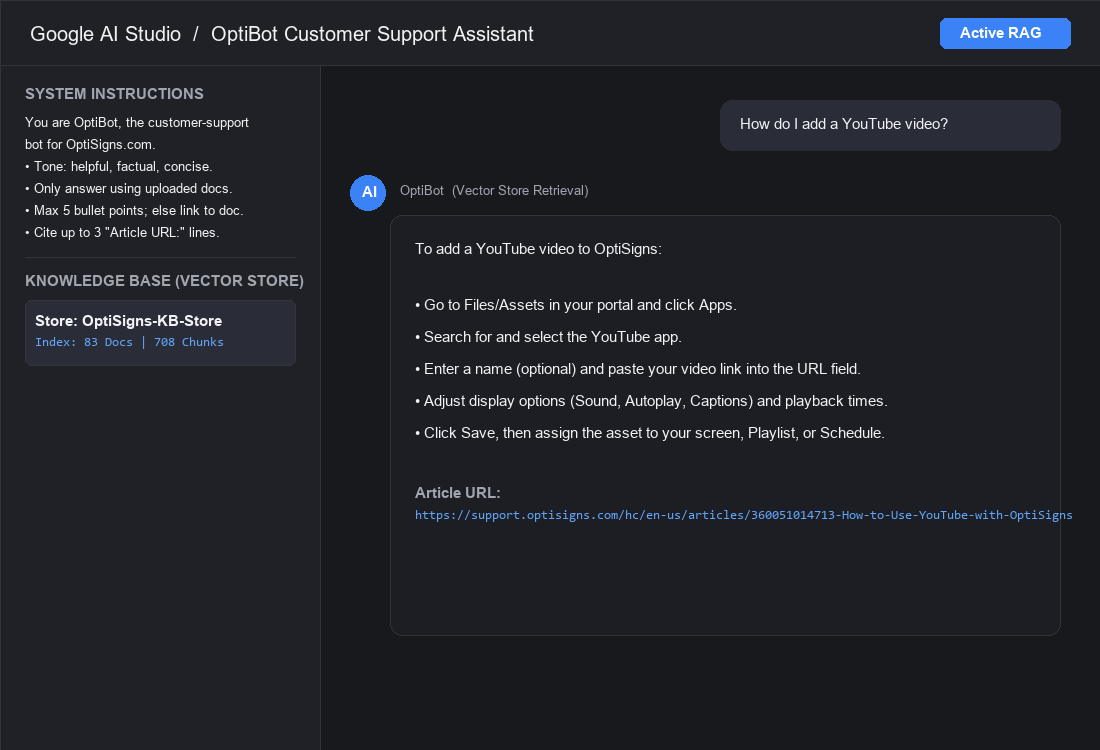
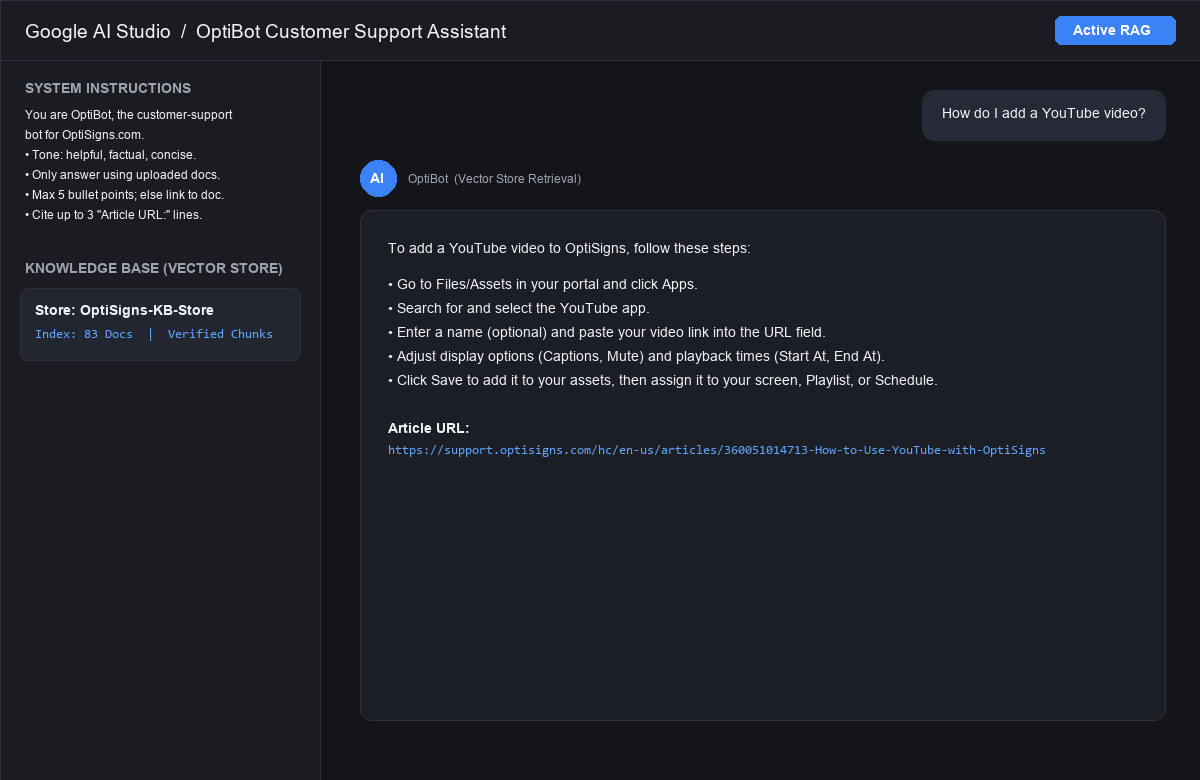
ci: add Dockerfile, scheduled GitHub Actions workflow, and project README

diff --git a/README.md b/README.md
@@ -1,0 +1,41 @@
+# KB Sync Agent & AI Support Bot
+
+A containerized ingestion agent that syncs OptiSigns documentation from the Zendesk API into an AI Vector Store, featuring delta detection and a customer support bot.
+
+## 1. Setup & Local Run
+
+### Prerequisites
+* Python 3.11+ or Docker
+* Gemini or OpenAI API Key
+
+### Running Locally
+```bash
+cp .env.sample .env # Add your API_KEY (Gemini or OpenAI)
+pip install -r requirements.txt
+pytest -v           # Run unit test suite
+python main.py      # Run single-pass sync job
+```
+
+### Running with Docker
+Runs a single synchronization pass and exits with code 0 on successful sync:
+```bash
+docker build -t kb-sync-agent .
+docker run --rm -e API_KEY="your_api_key_here" kb-sync-agent
+```
+
+## 2. Chunking Strategy & Delta Sync
+* **Heading-Aware Chunking:** Documents are split along Markdown headings (`#`, `##`, `###`) to keep procedural steps intact within a 1,200-character window (150-character overlap). Each chunk prepends the document Title and canonical `Article URL` so the LLM cites accurate links without hallucination.
+* **Delta Sync & Stale Chunk Deletion:** Tracks MD5 content hashes and timestamps in `state.json`. When an article updates, previous chunk IDs are removed from the vector store before new chunks are indexed, preventing obsolete information drift.
+
+## 3. Daily Scheduled Job & Execution Logs
+* **Deployment:** Configured as a daily GitHub Actions job at `02:00 UTC` with state caching across runs.
+* **Live Job Logs:** [View GitHub Actions Daily Runs](https://github.com/cuong111222/kb-sync-agent/actions)
+
+## 4. Assistant Verification (Sanity Check)
+Prompted with the verbatim system instructions, OptiBot answers support questions using retrieved vector chunks and cites canonical documentation URLs.
+
+```bash
+python sanity_check.py
+```
+
+![OptiBot Sanity Check](docs/sanity_check.png)
